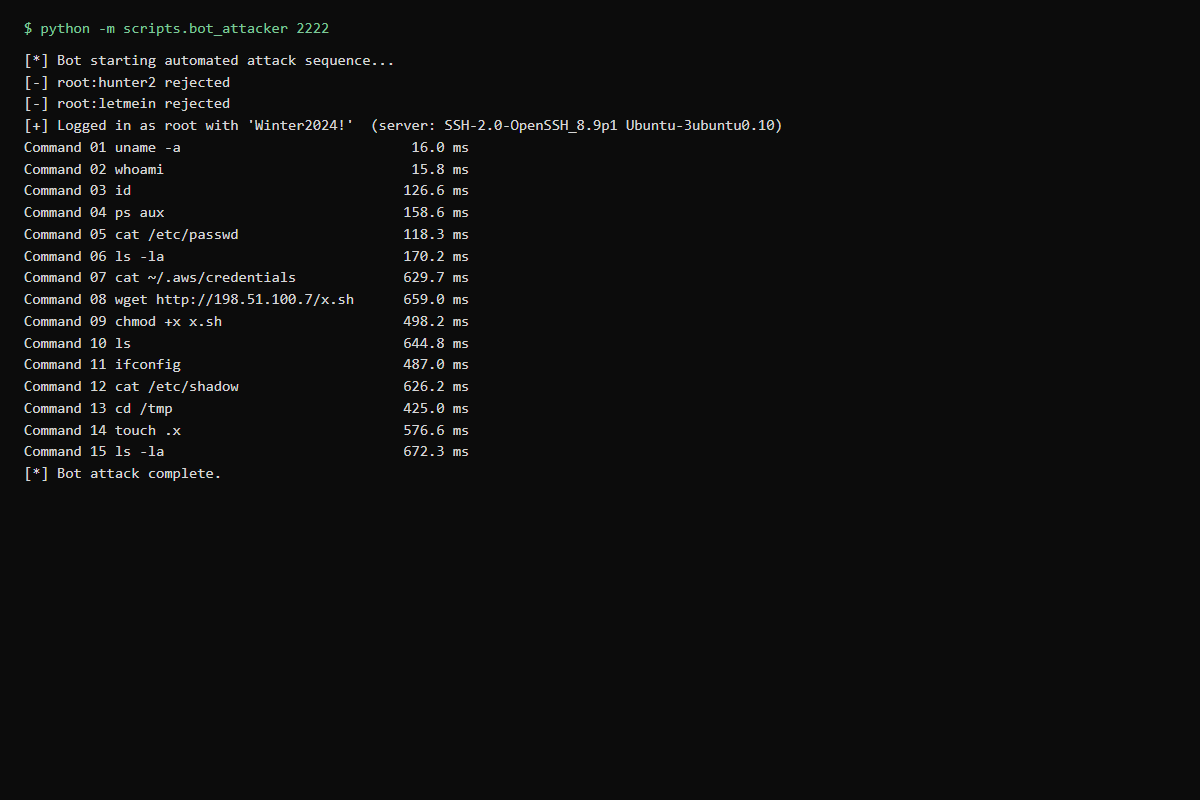
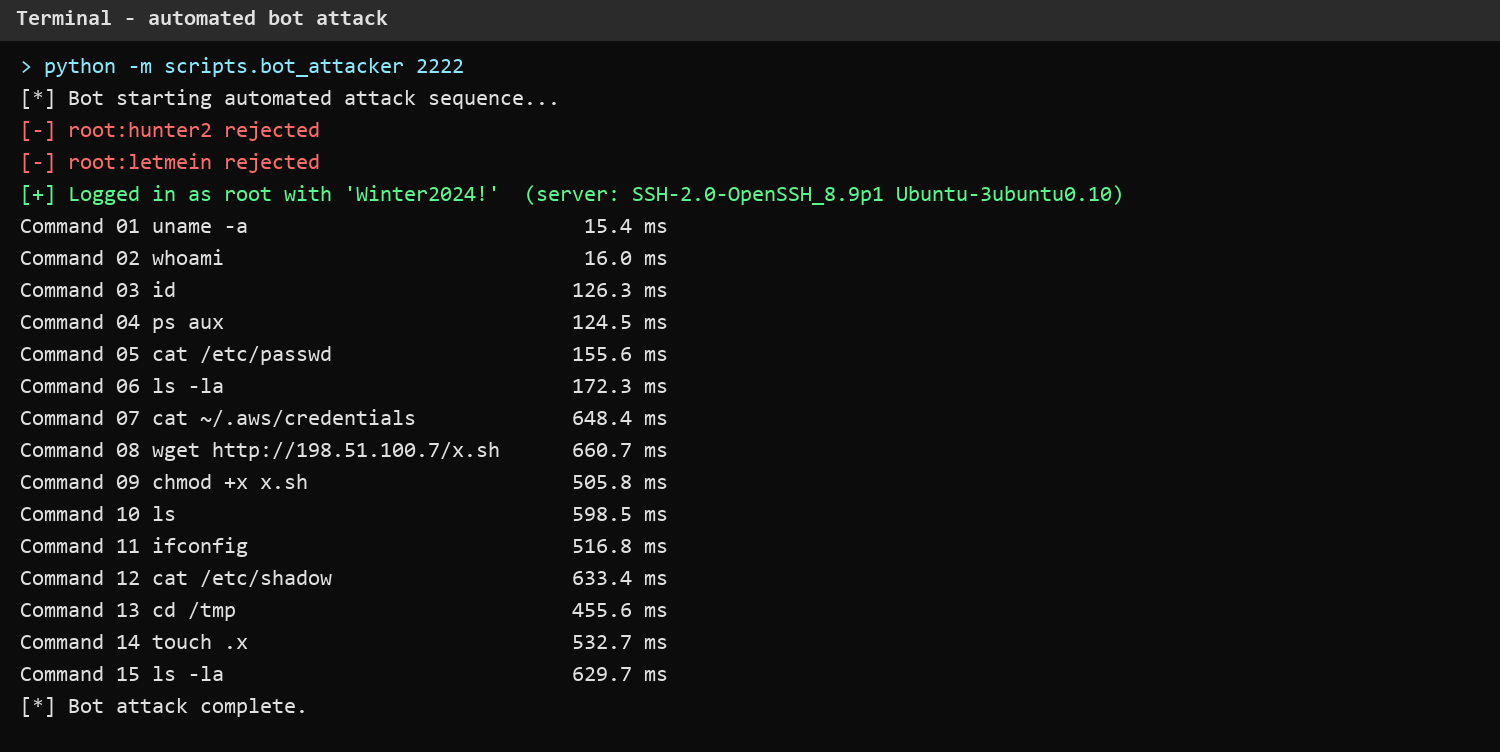
fix(decoy): log wall-clock timestamps so live sessions have real dates; retake all report figures

diff --git a/src/decoy/server.py b/src/decoy/server.py
@@ -194,7 +194,7 @@ class DecoySession:
 
         self.decoy.logger.log_event(TelemetryEvent(
             session_id=self.session_id,
-            timestamp_ns=now_ns,
+            timestamp_ns=time.time_ns(),  # wall clock for dates; delta_t uses the monotonic clock
             source_ip=self.source_ip,
             protocol=self.protocol,
             command_index=self.cmd_index,

diff --git a/CLAUDE.md b/CLAUDE.md
@@ -33,4 +33,4 @@ Running log of improvements, highest priority first. Each entry is added when th
   - Canary alerts (`src/decoy/alerts.py`): honeytoken reads (SSH `cat` of bait files via `is_honeytoken`, HTTP bait paths) and `wget`/`curl` download attempts append to `alerts.jsonl` (one alert per session/kind/value) and POST to `alert_webhook` / `$CERDA_ALERT_WEBHOOK` as `{"text","content"}` (Slack/Discord style). Webhook failures are swallowed.
   - NOT done: dashboard authentication (compose binds it to 127.0.0.1 only; put it behind an SSH tunnel or reverse proxy with auth before exposing). Docker needs no change: the container's working dir is the `/data` volume, so `signals.csv`, `alerts.jsonl` and `actors.db` land there. The image has still never been built.
 - [x] Stage 1.3 shell realism (pseudo_fs.py, ssh_server.py, tests/test_fs_realism.py) — 34 tests pass
-- [x] **Dashboard honesty fixes**: the hardcoded "CERF Accuracy Rating >= 90% Verified" tile is replaced by "Cluster Agreement (ARI)", computed with `score_clusters` against weak labels (shows n/a with no labelled sessions, and the labelled/total count). `scripts/generate_demo_data.py` now anchors synthetic timestamps to the last hour, so the date filter and `first_seen`/`last_seen` no longer show 1970. Demo ARI of 1.00 is on synthetic botnets that share a dropper URL, so it proves plumbing, not accuracy. Report figures are in `docs/figures` (fig1 and fig5 are post-fix; fig2-4, 6-7 predate the fix and still show the old tile/dates).
+- [x] **Dashboard honesty fixes**: the hardcoded "CERF Accuracy Rating >= 90% Verified" tile is replaced by "Cluster Agreement (ARI)", computed with `score_clusters` against weak labels (shows n/a with no labelled sessions, and the labelled/total count). `scripts/generate_demo_data.py` now anchors synthetic timestamps to the last hour, so the date filter and `first_seen`/`last_seen` no longer show 1970. Demo ARI of 1.00 is on synthetic botnets that share a dropper URL, so it proves plumbing, not accuracy. Report figures are in `docs/figures`, all retaken after the fixes (7 figures, one dashboard run with two live bot attacks). Bug found while retaking them: live decoy telemetry stamped `timestamp_ns` from the monotonic clock, so real sessions showed 1970 dates; `DecoySession.step` now logs `time.time_ns()` (delta_t still uses the monotonic clock). Figs 6-7 are rendered from the real `bot2.log`, `auth.csv` and `alerts.jsonl` rather than screenshotted.
